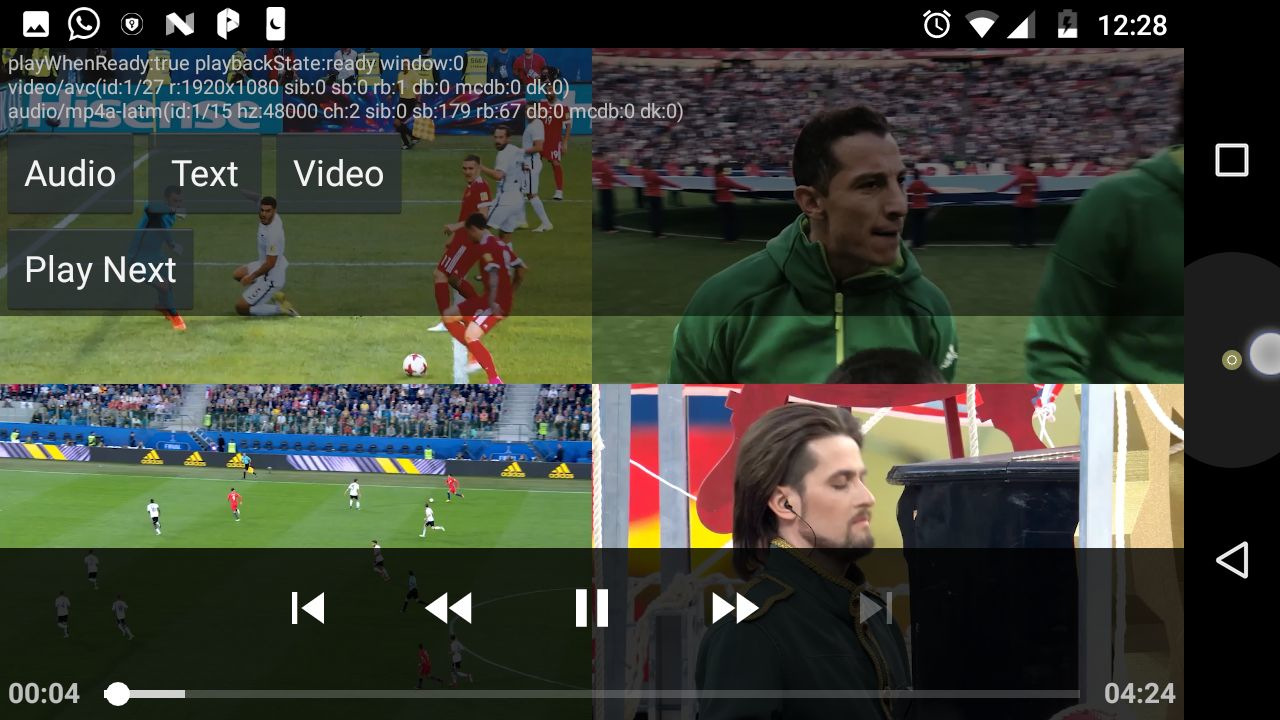
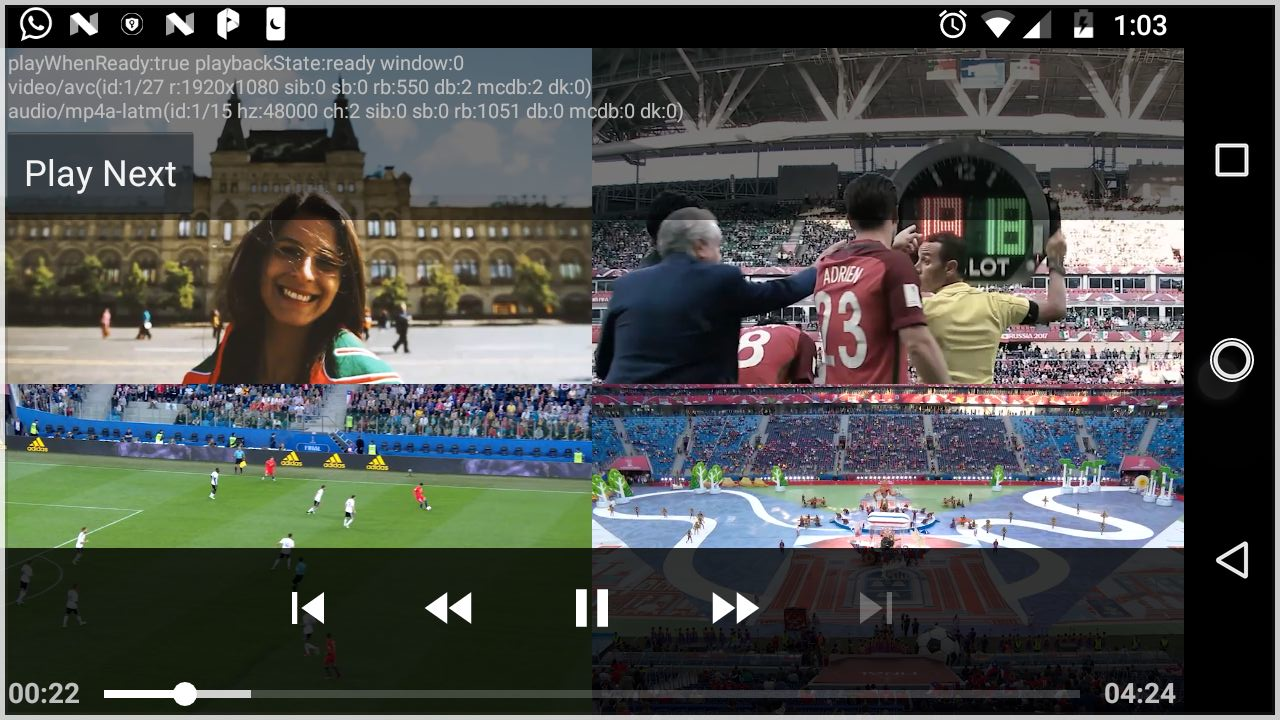
ReadMe: better UI

diff --git a/demos/main/src/main/java/com/google/android/exoplayer2/demo/PlayerActivity.java b/demos/main/src/main/java/com/google/android/exoplayer2/demo/PlayerActivity.java
@@ -589,7 +589,7 @@ public class PlayerActivity extends Activity
             return;
         }
 
-        for (int i = 0; i < mappedTrackInfo.length; i++) {
+       /* for (int i = 0; i < mappedTrackInfo.length; i++) {
             TrackGroupArray trackGroups = mappedTrackInfo.getTrackGroups(i);
             if (trackGroups.length != 0) {
                 Button button = new Button(this);
@@ -612,7 +612,7 @@ public class PlayerActivity extends Activity
                 button.setOnClickListener(this);
                 debugRootView.addView(button, debugRootView.getChildCount() - 1);
             }
-        }
+        }*/
     }
 
     private void showControls() {
